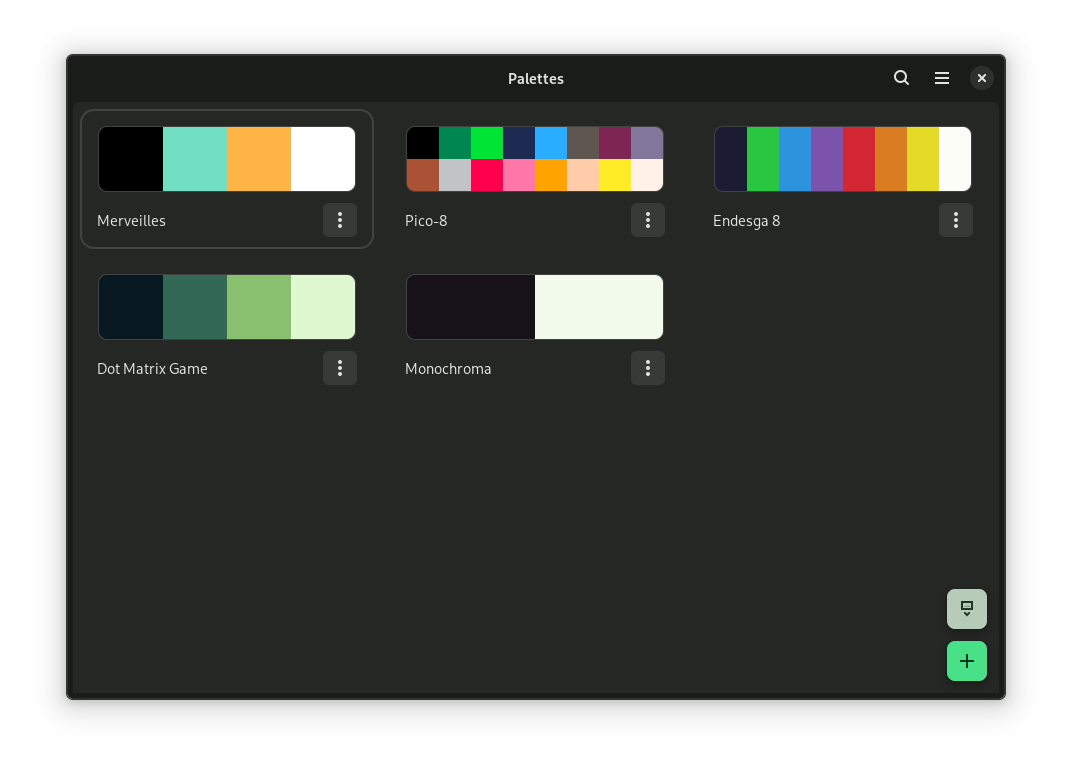
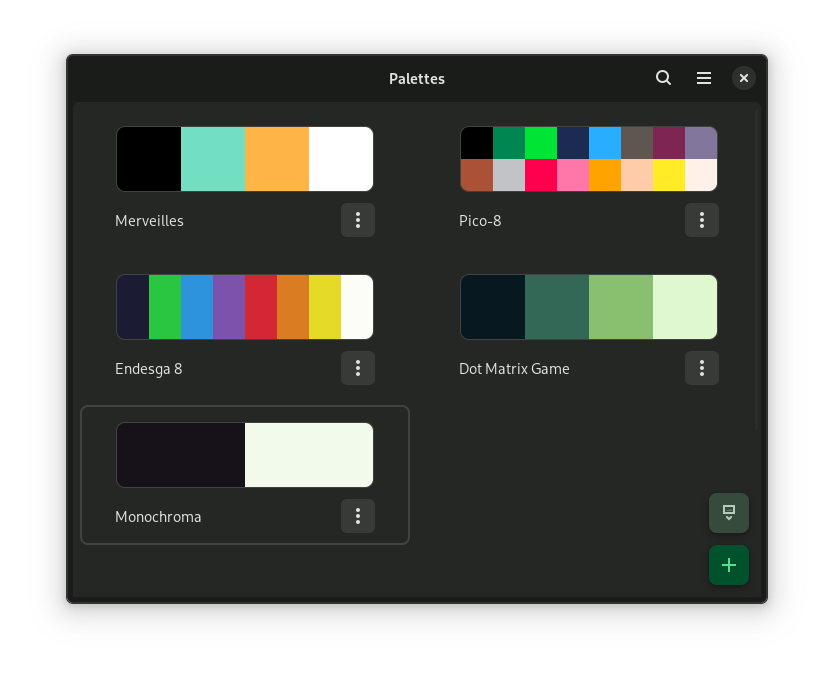
* - Fix LAB button color

diff --git a/data/style.css b/data/style.css
@@ -1,10 +1,10 @@
 /* app */
 @define-color accent_color #006d37;
-@define-color accent_bg_color #006d37;
-@define-color accent_fg_color #fff;
-@define-color accent_secondary_color #506353;
-@define-color accent_secondary_bg_color #506353;
-@define-color accent_secondary_fg_color #fff;
+@define-color accent_bg_color #78fbb0;
+@define-color accent_fg_color #006d3e;
+@define-color accent_secondary_color #d1e8d5;
+@define-color accent_secondary_bg_color #d1e8d5;
+@define-color accent_secondary_fg_color #006d3e;
 @define-color window_bg_color #eff1eb;
 @define-color view_bg_color #fbfdf7;
 @define-color headerbar_bg_color #eff1eb;
@@ -27,7 +27,7 @@
 
 gridview child .palette-box,
 gridview child .color-box {
-  border-radius: 12px;
+  border-radius: 6px;
   border: 4px solid transparent;
   padding: 6px;
   margin: 6px;
@@ -92,7 +92,7 @@ gridview child:selected .color-box {
   color: @accent_fg_color;
 }
 .accent-secondary-button {
-  background: @accent_secondary_color;
+  background: @accent_secondary_bg_color;
   color: @accent_secondary_fg_color;
 }
 .eml-view {

diff --git a/data/style-dark.css b/data/style-dark.css
@@ -1,9 +1,9 @@
 @define-color accent_color #48e188;
-@define-color accent_bg_color #48e188;
-@define-color accent_fg_color #00391a;
+@define-color accent_bg_color #00522d;
+@define-color accent_fg_color #59de96;
 @define-color accent_secondary_color #b6ccb8;
-@define-color accent_secondary_bg_color #b6ccb8;
-@define-color accent_secondary_fg_color #223527;
+@define-color accent_secondary_bg_color #374b3d;
+@define-color accent_secondary_fg_color #b6ccba;
 @define-color window_bg_color #1a1c1a;
 @define-color view_bg_color #252725;
 @define-color headerbar_bg_color #1a1c1a;
